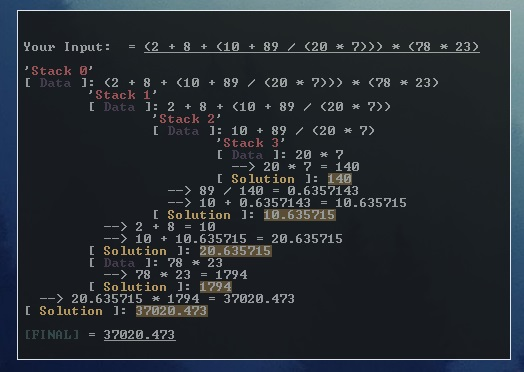
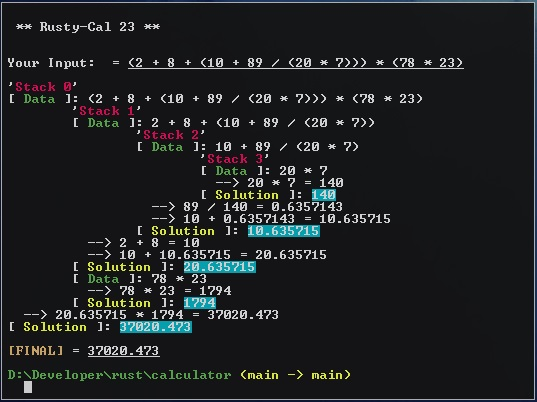
preview

Changed region(s): [[0.0, 0.0, 1.0, 1.0], [0.2137, 0.0887, 0.916, 0.1774]]

diff --git a/src/problem_solution.rs b/src/problem_solution.rs
@@ -21,7 +21,7 @@ impl ProblemSolution {
     let compact = if is_compact {""} else {"\n"};
     let header = if show_header {format!("{}'\x1b[91mStack {}\x1b[0m'\n", space, self.stack)} else {String::new()};
 
-    println!("{header}{}[\x1b[35m Data \x1b[0m]: {}{}", space, self.problem, compact);
+    println!("{header}{}[\x1b[92m Data \x1b[0m]: {}{}", space, self.problem, compact);
 
     let mut index = 0;
     for i in &self.branches {
